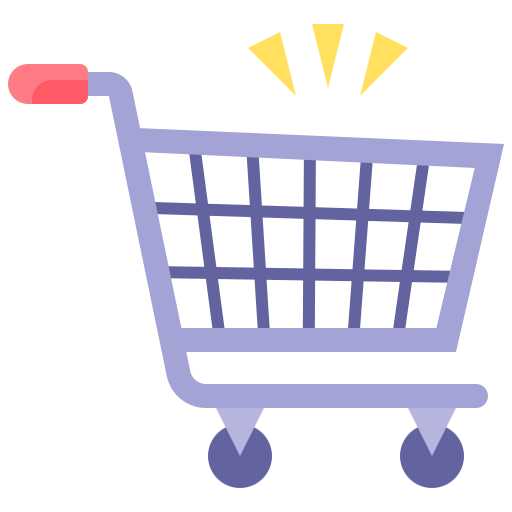
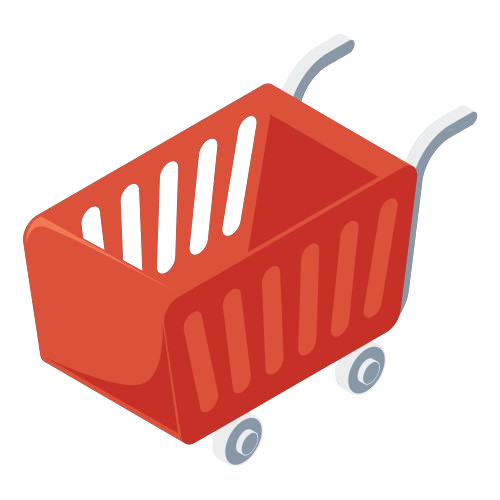
Estilado Final

diff --git a/src/app/pages/mesa-ocupada/mesa-ocupada.page.scss b/src/app/pages/mesa-ocupada/mesa-ocupada.page.scss
@@ -444,8 +444,7 @@ ion-content.blocked {
   flex-direction: column;
   gap: 15px;
   color: var(--color-text);
-  background-color: var(--color-btn-primary);
-  min-height: 100%;
+  background-color: var(--color-background);
 }
 
 .carrito-item {
@@ -498,49 +497,54 @@ ion-content.blocked {
     margin: 6px 0;
     color: var(--color-text);
   }
+
+  .totalCarrito {
+    font-size: 30px !important;
+  }
 }
 
 .carrito-botones {
   display: flex;
   justify-content: center;
-  margin-top: 10px;
-
-  .btn_pedido {
-    width: 100%;
-    background-color: var(--color-btn-primary);
-    border-top: 2px solid var(--color-text);
-    font-size: 22px;
-    font-weight: 600;
-    color: var(--color-text);
-    border-radius: 12px;
-    padding: 12px 0;
-  }
 }
 
 .carrito-vacio {
+  display: flex;
+  flex-direction: column;
+  justify-content: center;
+  align-items: center;
   text-align: center;
-  margin-top: 40px;
+  margin-top: 20px;
   color: var(--color-text);
 
   img {
-    width: 160px;
+    width: 300px;
     opacity: 0.7;
-    margin-bottom: 15px;
   }
 
   p {
-    font-size: 20px;
+    font-size: 30px;
     font-weight: 600;
-    margin-bottom: 20px;
   }
+}
 
-  .btn_pedido {
-    background-color: var(--color-btn-primary);
-    color: var(--color-text);
-    border: 2px solid var(--color-text);
-    font-size: 20px;
-    font-weight: 600;
-    border-radius: 12px;
-    padding: 8px 16px;
-  }
+.btn_pedido2 {
+  background-color: var(--color-container);
+  border: 2px solid var(--color-text);
+  font-size: 18px;
+  font-weight: 600;
+  color: var(--color-text);
+  border-radius: 12px;
+  padding: 5px;
+  width: fit-content;
+}
+
+.btn_finalizar {
+  background-color: var(--color-container);
+  border-top: 2px solid var(--color-text);
+  font-size: 25px;
+  font-weight: 600;
+  color: var(--color-text);
+  border-radius: 12px;
+  padding: 10px;
 }

diff --git a/src/app/pages/mesa-ocupada/mesa-ocupada.page.html b/src/app/pages/mesa-ocupada/mesa-ocupada.page.html
@@ -148,7 +148,7 @@
       } @else {
         <div class="carrito-header">
           <h2>🛒 Carrito de Pedido</h2>
-          <button class="btn_pedido" (click)="showCarrito()">Ver Menú</button>
+          <button class="btn_pedido2" (click)="showCarrito()">Atrás</button>
         </div>
 
         <div class="carrito-lista">
@@ -161,7 +161,7 @@
                 </div>
 
                 <div class="item-detalle">
-                  <span>Cant: {{ item.cantidad }}</span>
+                  <span>Cantidad: {{ item.cantidad }}</span>
                   <span>Precio: {{ item.precioUnit | currency:"ARS":"symbol-narrow":"1.0-0" }}</span>
                   <span>Subtotal: {{ item.cantidad * item.precioUnit | currency:"ARS":"symbol-narrow":"1.0-0" }}</span>
                 </div>
@@ -169,13 +169,13 @@
             }
 
             <div class="carrito-total">
-              <p><strong>Total:</strong> {{ total | currency:"ARS":"symbol-narrow":"1.0-0" }}</p>
-              <p><strong>Tiempo estimado:</strong> {{ etaMin }} min</p>
+              <p>Tiempo Estimado: {{ etaMin }} minutos</p>
+              <p class="totalCarrito">Total: {{ total | currency:"ARS":"symbol-narrow":"1.0-0" }}</p>
             </div>
 
             <div class="carrito-botones">
               <button
-                class="btn_pedido"
+                class="btn_finalizar"
                 [disabled]="submitting || pedidoBloqueado || itemsSel.length===0"
                 (click)="terminarPedido();">
                 Finalizar Pedido
@@ -185,7 +185,6 @@
             <div class="carrito-vacio">
               <img src="assets/images/carritoVacio.png" alt="Carrito vacío">
               <p>No hay productos en tu pedido todavía.</p>
-              <button class="btn_pedido" (click)="showCarrito()">Ver Menú</button>
             </div>
           }
         </div>

diff --git a/src/app/pages/pedido/pedido.page.scss b/src/app/pages/pedido/pedido.page.scss
@@ -9,15 +9,26 @@ title {
   align-items: center;
 }
 
-.loading,
-.error,
 .vacio {
-  padding: 1rem;
-  text-align: center;
-  color: var(--color-text);
-  font-size: 18px;
-  font-weight: 600;
-  margin: 10px 0;
+  display: flex;
+  flex-direction: column;
+  justify-content: center;
+  align-items: center;
+  gap: 40px;
+  margin: 60px 0;
+
+  p {
+    text-align: center;
+    color: var(--color-text);
+    font-size: 30px;
+    font-weight: 600;
+    margin: 0;
+  }
+
+  img {
+    width: 320px;
+    border-radius: 20px;
+  }
 }
 
 .div_total {

diff --git a/src/app/pages/pedido/pedido.page.html b/src/app/pages/pedido/pedido.page.html
@@ -9,7 +9,10 @@
 
   <ion-content>
     @if(!loading && !ped) {
-      <div class="vacio">Pedido no Encontrado</div>
+      <div class="vacio">
+        <p>Pedido no Encontrado</p>
+        <img src="assets/images/platoVacio.png">
+      </div>
     } @else {
         <div class="contenedor">
           <div class="div_total">
